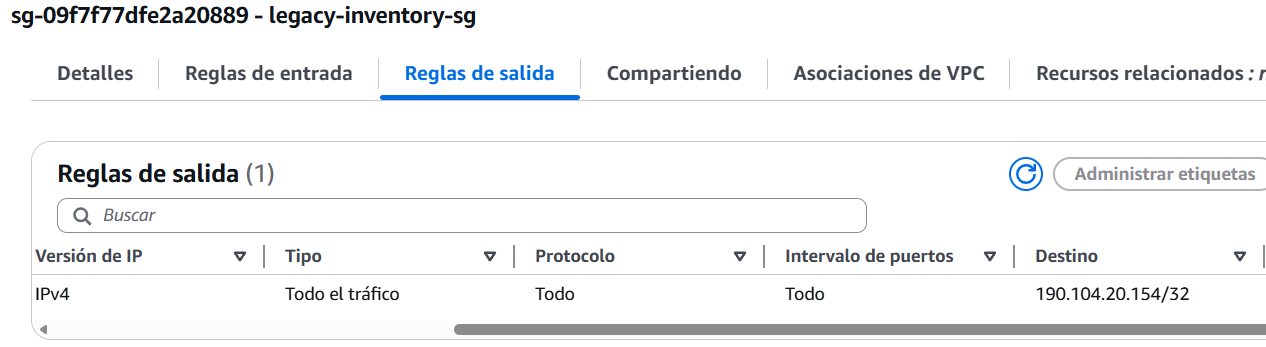
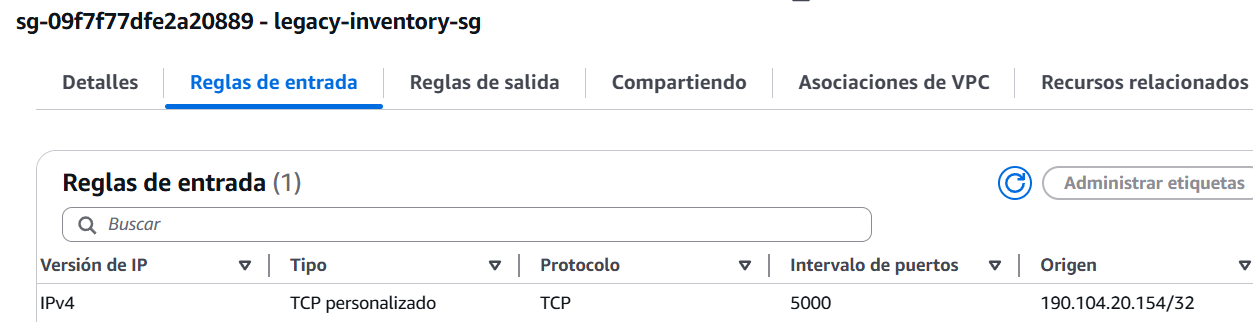
feat: actualizacion de README y ultimas evidencias

diff --git a/README.md b/README.md
@@ -1,0 +1,15 @@
+# Legacy Inventory - Arquitectura CI/CD en AWS
+
+## Descripción de la Arquitectura
+Este proyecto moderniza una aplicación monolítica "Legacy" mediante la implementación de prácticas DevOps. La arquitectura consta de:
+
+* **Integración Continua (CI):** Pipeline configurado en GitHub Actions (`ci.yml`) que se dispara en la rama `develop`. Utiliza un entorno Ubuntu para configurar Node.js 20, instalar dependencias y ejecutar pruebas automatizadas, empaquetando un artefacto si son exitosas.
+* **Infraestructura como Código (IaC):** Arquitectura modular utilizando Terraform.
+  * **Módulo Network:** Gestiona los Security Groups, limitando el acceso estrictamente a la IP del administrador (`/32`) por requerimientos de seguridad.
+  * **Módulo Compute:** Aprovisiona una instancia EC2 `t3.micro` con Amazon Linux 2023. Utiliza un script `user_data` (con `yum`) para automatizar la instalación de Node.js, git, clonar el repositorio y levantar el servicio.
+  * El estado de Terraform se gestiona de forma remota y segura mediante un backend en Amazon S3.
+* **Despliegue Continuo (CD):** Pipeline (`cd.yml`) ejecutado tras un merge a la rama `main`. Configura credenciales temporales de AWS y ejecuta `terraform init`, `plan` y `apply` de forma automatizada para aprovisionar los cambios sin intervención manual (GitOps).
+
+## Enlace de Validación Funcional
+La aplicación se encuentra desplegada y respondiendo en el puerto 5000:
+**http://3.237.71.19:5000**